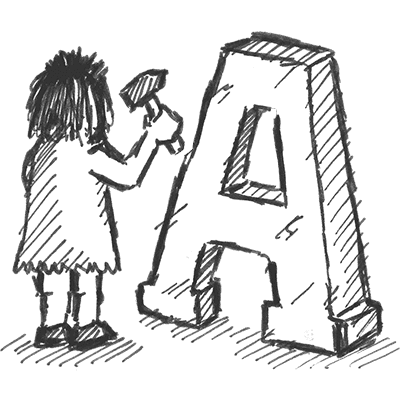
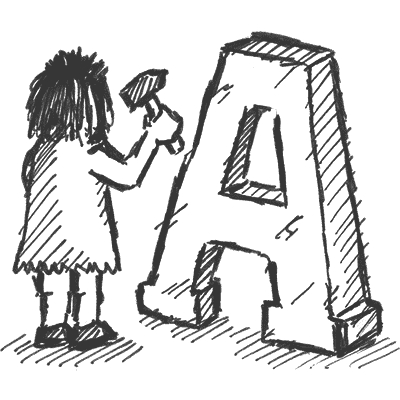
More Dark Mode stuff

diff --git a/src/mockups/blog-article.html b/src/mockups/blog-article.html
@@ -378,7 +378,7 @@
     	                </ul>
                         <small>Powered by <a rel="external" href="http://website.informer.com/">website.informer.com</a></small>
 
-                        <p><img width="200" height="200" alt="The Carver" src="../assets/img/com/carver.png" srcset="../assets/img/com/carver@2x.png 2x"></p>
+                        <p><img class="the-carver" width="200" height="200" alt="The Carver" src="../assets/img/com/carver.png" srcset="../assets/img/com/carver@2x.png 2x"></p>
                     </section>
 
                 </div><!-- /.layout-container -->

diff --git a/src/mockups/blog-landing.html b/src/mockups/blog-landing.html
@@ -361,7 +361,7 @@
     	                </ul>
                         <small>Powered by <a rel="external" href="http://website.informer.com/">website.informer.com</a></small>
 
-                        <p><img width="200" height="200" alt="The Carver" src="../assets/img/com/carver.png" srcset="../assets/img/com/carver@2x.png 2x"></p>
+                        <p><img class="the-carver" width="200" height="200" alt="The Carver" src="../assets/img/com/carver.png" srcset="../assets/img/com/carver@2x.png 2x"></p>
                     </section>
 
                 </div><!-- /.layout-container -->

diff --git a/src/mockups/get-started.html b/src/mockups/get-started.html
@@ -294,7 +294,7 @@
     	                </ul>
                         <small>Powered by <a rel="external" href="http://website.informer.com/">website.informer.com</a></small>
 
-                        <p><img width="200" height="200" alt="The Carver" src="../assets/img/com/carver.png" srcset="../assets/img/com/carver@2x.png 2x"></p>
+                        <p><img class="the-carver" width="200" height="200" alt="The Carver" src="../assets/img/com/carver.png" srcset="../assets/img/com/carver@2x.png 2x"></p>
                     </section>
 
                 </div><!-- /.layout-container -->

diff --git a/src/mockups/showcase-article.html b/src/mockups/showcase-article.html
@@ -223,7 +223,7 @@
     	                </ul>
                         <small>Powered by <a rel="external" href="http://website.informer.com/">website.informer.com</a></small>
 
-                        <p><img width="200" height="200" alt="The Carver" src="../assets/img/com/carver.png" srcset="../assets/img/com/carver@2x.png 2x"></p>
+                        <p><img class="the-carver" width="200" height="200" alt="The Carver" src="../assets/img/com/carver.png" srcset="../assets/img/com/carver@2x.png 2x"></p>
                     </section>
 
                 </div><!-- /.layout-container -->

diff --git a/src/assets/sass/modules/_layout.scss b/src/assets/sass/modules/_layout.scss
@@ -319,6 +319,12 @@ section {
     border-top: 2px dashed $color-text;
 }
 
+@media (prefers-color-scheme: dark) {
+    .sidebar {
+        border-top-color: $dark-color-text;
+    }
+}
+
 /**
  * General articles and article teasers.
  */
@@ -475,6 +481,7 @@ main .layout-4col-3span {
 }
 
 @media (prefers-color-scheme: dark) {
+    .the-carver,
     .index-feature h3::before,
     .index-docs h3::before {
         filter: contrast(150%);

diff --git a/src/assets/sass/modules/_responsive.scss b/src/assets/sass/modules/_responsive.scss
@@ -547,6 +547,12 @@
         background-color: $color-background-box;
     }
 
+    @media (prefers-color-scheme: dark) {
+        .sidebar {
+            background-color: $dark-color-background-box;
+        }
+    }
+
     /**
      * Showcase images.
      */

diff --git a/src/assets/sass/modules/_breadcrumbs.scss b/src/assets/sass/modules/_breadcrumbs.scss
@@ -28,3 +28,9 @@
         content: "\00A0" "\002F" "\00A0";
     }
 }
+
+@media (prefers-color-scheme: dark) {
+    .breadcrumbs {
+        background-color: $dark-color-background-box;
+    }
+}

diff --git a/README.md b/README.md
@@ -66,9 +66,9 @@ Textpattern 4.7 introduced support for user-definable `<txp:output_form />` attr
 
 To create a HTML5 image snippet:
 
-    <txp::media_image id="" />
+    <txp::media_image id="" dark-option="" />
 
-`id` accepts either a single image ID, or comma separated image IDs if you want multiple images. For blogs/articles the ideal image width is `832` pixels for the standard resolution version and `1664` pixels for the double resolution version (which is optional, but should be provided if possible).
+`id` accepts either a single image ID, or comma separated image IDs if you want multiple images. For blogs/articles the ideal image width is `832` pixels for the standard resolution version and `1664` pixels for the double resolution version (which is optional, but should be provided if possible). `dark-option` is optional, for if you need to provide an alternative image when website is in Dark Mode.
 
 For example:
 
